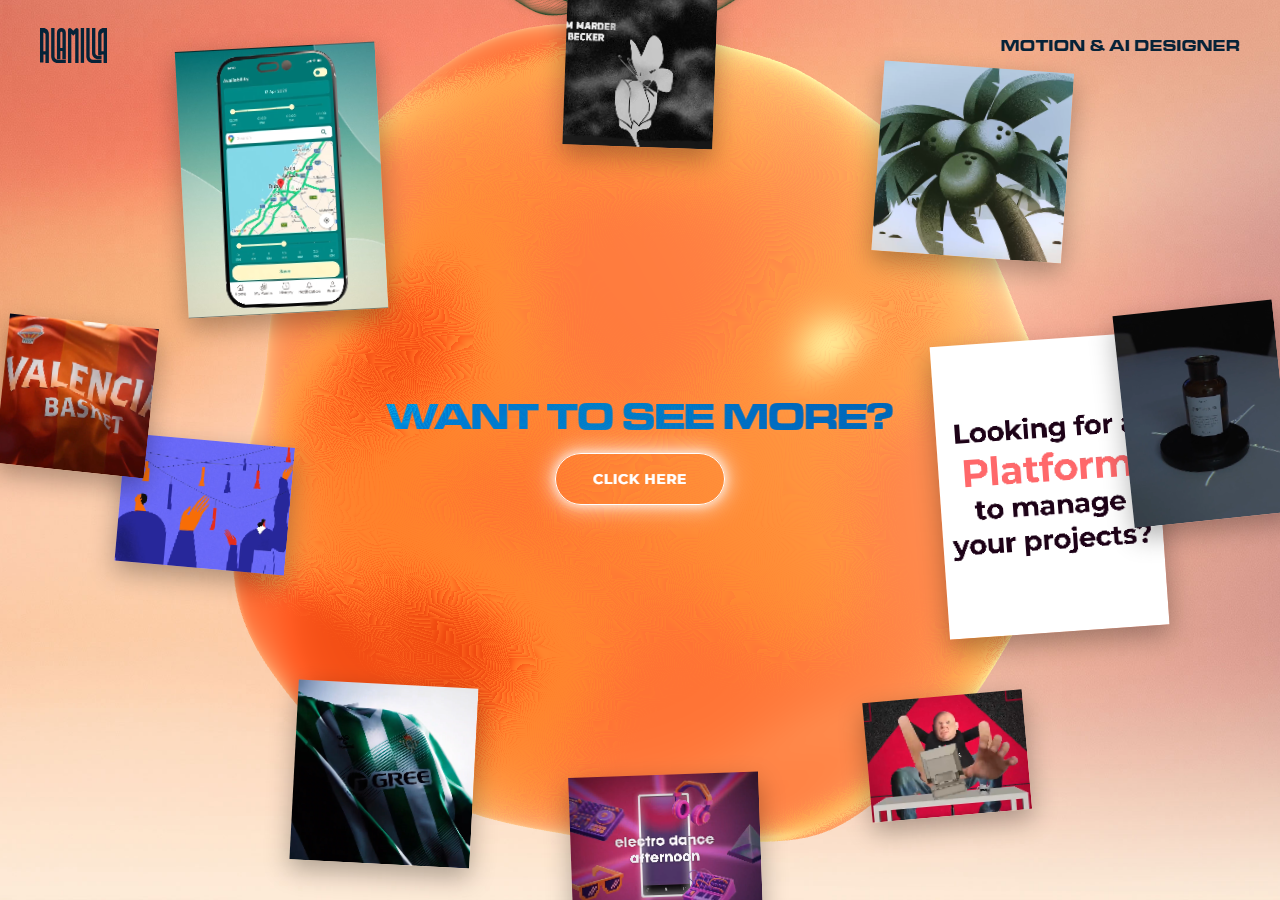
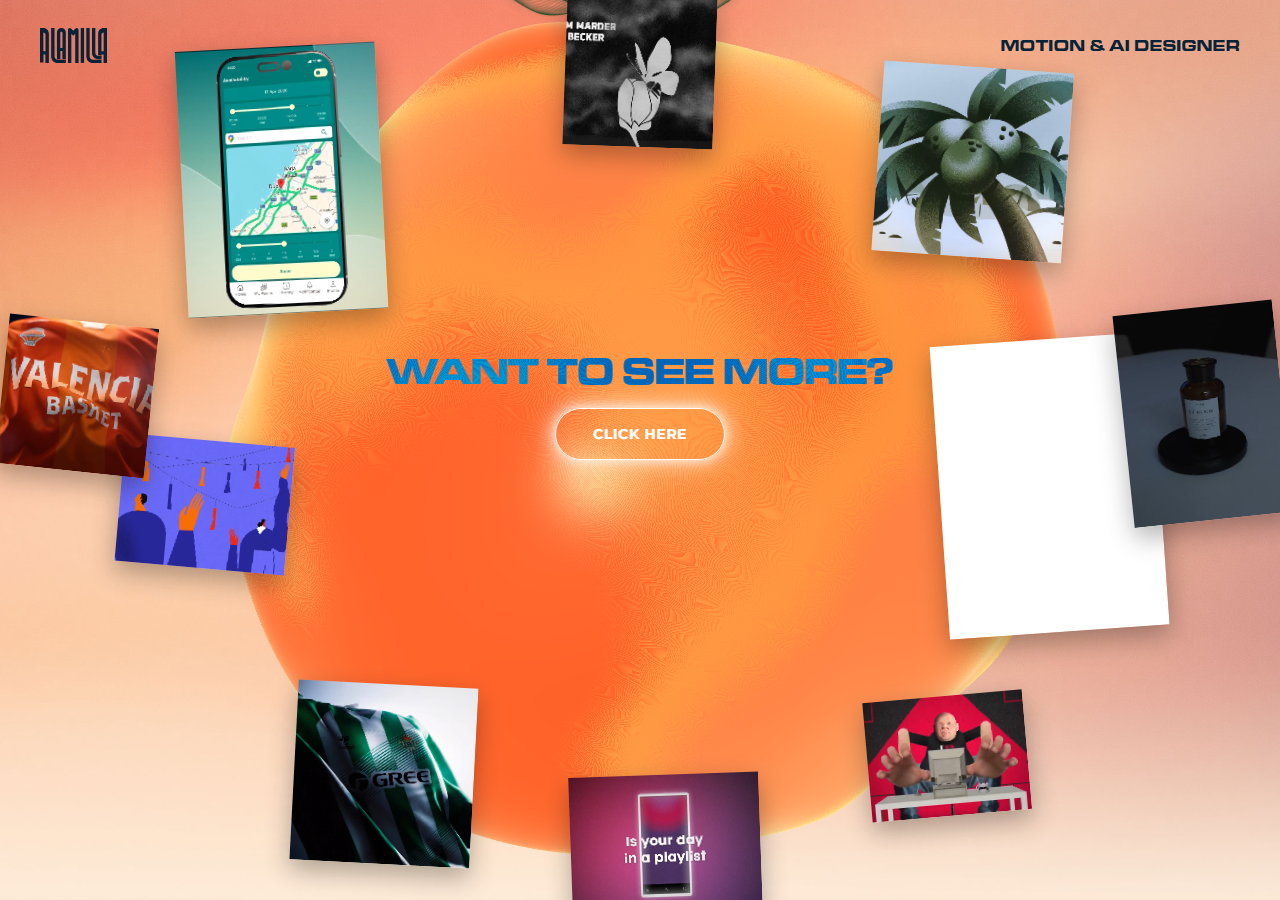
uy5t4

diff --git a/work.html b/work.html
@@ -3,13 +3,13 @@
 <head>
 <meta charset="UTF-8">
 <meta name="viewport" content="width=device-width, initial-scale=1.0">
-<title>ALAMILLA | Motion & AI Designer</title>
+<title>ALAMILLA | MOTION & AI</title>
 <link rel="icon" type="image/png" href="/favicon.png">
 <link rel="preload" as="image" href="/fondo-4.jpg">
 <link rel="preload" as="font" type="font/woff2" href="Coolvetica Font/Coolvetica Rg Cond.woff2" crossorigin>
 <link rel="preconnect" href="https://fonts.googleapis.com">
 <link rel="preconnect" href="https://fonts.gstatic.com" crossorigin>
-<link href="https://fonts.googleapis.com/css2?family=Montserrat:wght@300&display=swap" rel="stylesheet">
+<link href="https://fonts.googleapis.com/css2?family=Montserrat:wght@400;700&display=swap" rel="stylesheet">
 <style>
   #page-transition-overlay {
     position: fixed;
@@ -160,7 +160,7 @@
     display: flex; align-items: center; justify-content: center;
   }
   .wk-media-empty span {
-    font-family: 'Montserrat', sans-serif; font-weight: 300;
+    font-family: 'Montserrat', sans-serif; font-weight: 400;
     font-size: 0.7rem; color: #333; text-transform: uppercase; letter-spacing: 0.2em;
   }
   .wk-media-wrap::before {
@@ -214,7 +214,7 @@
     display: block; margin-bottom: 0.55rem;
   }
   .c-desc {
-    font-family: 'Montserrat', sans-serif; font-weight: 300;
+    font-family: 'Montserrat', sans-serif; font-weight: 400;
     font-size: clamp(0.85rem, 1.2vw, 1rem);
     color: rgba(255,255,255,0.65); line-height: 1.5;
     max-width: 480px; display: block;
@@ -223,7 +223,7 @@
   .c-index {
     position: absolute; top: 2rem; right: 3rem; z-index: 3;
     font-family: 'Montserrat', sans-serif; font-size: 0.7rem;
-    font-weight: 300; color: rgba(255,255,255,0.35);
+    font-weight: 400; color: rgba(255,255,255,0.35);
     letter-spacing: 0.14em; text-transform: uppercase;
   }
 
@@ -233,7 +233,7 @@
   }
   .ex-body-text {
     font-family: 'Montserrat', sans-serif;
-    font-weight: 300;
+    font-weight: 400;
     font-size: 1.1rem;
     color: rgba(255,255,255,0.6);
     line-height: 1.75;
@@ -250,19 +250,17 @@
     gap: 0.6rem;
     padding: 2.5rem 2rem;
     font-family: 'Montserrat', sans-serif;
-    font-weight: 300;
+    font-weight: 400;
     font-size: 1rem;
-    color: #161616;
+    color: #062338;
   }
   .shared-footer img {
     height: 1.4rem;
     width: auto;
-    filter: brightness(0);
   }
   #wk-footer { padding: 0; }
   @media (max-width: 768px) { #wk-footer { padding: 2rem 2rem 3.5rem; } }
-  #card-expand-body .shared-footer { color: #161616; }
-  #card-expand-body .shared-footer img { filter: brightness(0); }
+  #card-expand-body .shared-footer { color: #062338; }
 
   /* ── Responsive ─────────────────────────────────────────────────────────── */
 
@@ -360,10 +358,10 @@
     transition: transform 140ms var(--ease-out), background 160ms;
   }
   .ex-btn:active { transform: scale(0.95); }
-  .ex-btn-primary { background: #fff; color: #000; }
+  .ex-btn-primary { background: #fff; color: #062338; }
   .ex-btn-ghost   { background: rgba(255,255,255,0.12); color: #fff; border: 1px solid rgba(255,255,255,0.22); }
   #card-expand-body {
-    position: relative; z-index: 1; color: #161616;
+    position: relative; z-index: 1; color: #062338;
     background-image: url('/fondo-4.jpg');
     background-size: cover; background-position: top center;
     background-attachment: fixed; background-repeat: no-repeat;
@@ -373,11 +371,11 @@
   #card-expand-body .ex-body-section { margin: 8rem auto 3rem; width: 650px; max-width: 100%; }
   #card-expand-body .ex-body-section:first-of-type { margin-top: 4rem; }
   #card-expand-body .ex-section-divider { margin-bottom: 1.5rem; background: rgba(22,22,22,0.2); }
-  #card-expand-body .ex-body-text { margin: 0 0 1rem 0; color: #161616; }
-  #card-expand-body .ex-letter { color: #ffffff; mix-blend-mode: difference; }
+  #card-expand-body .ex-body-text { margin: 0 0 1rem 0; color: #062338; }
+  #card-expand-body .ex-letter { color: #062338; }
   .ex-meta-stack { display: flex; flex-direction: column; gap: 0.35rem; margin-bottom: 1rem; }
-  .ex-meta-label { font-family: 'Montserrat', sans-serif; font-weight: 300; font-size: 1.1rem; color: rgba(22,22,22,0.7); }
-  .ex-meta-label strong { font-weight: 500; font-style: italic; color: #161616; }
+  .ex-meta-label { font-family: 'Montserrat', sans-serif; font-weight: 400; font-size: 1.1rem; color: rgba(6,35,56,0.7); }
+  .ex-meta-label strong { font-weight: 700; font-style: italic; color: #062338; }
   #card-expand-styleframes { display: grid; grid-template-columns: repeat(2, 1fr); gap: 1rem; }
   #card-expand-styleframes:empty { display: none; }
   #card-expand-challenge-videos,

diff --git a/src/main.js b/src/main.js
@@ -372,7 +372,19 @@ const heroScrollTimeline = gsap.timeline({
 });
 
 heroScrollTimeline
-  .to(".headline-word", { opacity: 0, y: -40, duration: 1, ease: "none" }, 0)
+  // Salida "glow horizon": además del fundido + subida ya existentes, las
+  // palabras se desenfocan y escalan ligeramente hacia afuera, como si se
+  // disolvieran en un resplandor — con un pequeño stagger entre palabras.
+  // Sin tinte de color (text-shadow) a propósito: .headline-word usa
+  // mix-blend-mode:difference (ver comentario en style.css), así que
+  // cualquier color añadido en el mismo elemento se invertiría contra el
+  // fondo de forma impredecible en vez de leerse como un resplandor limpio.
+  .fromTo(
+    ".headline-word",
+    { opacity: 1, y: 0, scale: 1, filter: "blur(0px)" },
+    { opacity: 0, y: -60, scale: 1.15, filter: "blur(14px)", duration: 1, stagger: 0.08, ease: "none" },
+    0
+  )
   .fromTo(
     ".tagline-line",
     { opacity: 0, y: 40 },

diff --git a/src/style.css b/src/style.css
@@ -468,7 +468,7 @@ a.featured-work-item:active {
   margin-inline: auto;
   width: fit-content;
   max-width: 90vw; /* lets the title wrap instead of overflowing the viewport at this font-size */
-  top: calc(43% + 5px); /* tune by eye — centers the (now smaller) block on the screen's vertical midline */
+  top: calc(38% + 5px); /* tune by eye — subido respecto al centro exacto */
   display: flex;
   flex-direction: column;
   align-items: center;

diff --git a/index.html b/index.html
@@ -3,7 +3,7 @@
   <head>
     <meta charset="UTF-8" />
     <meta name="viewport" content="width=device-width, initial-scale=1.0" />
-    <title>ALAMILLA | Motion & AI Designer</title>
+    <title>ALAMILLA | MOTION & AI</title>
     <link rel="icon" type="image/png" href="/favicon.png" />
     <link rel="preconnect" href="https://fonts.googleapis.com">
     <link rel="preconnect" href="https://fonts.gstatic.com" crossorigin>
